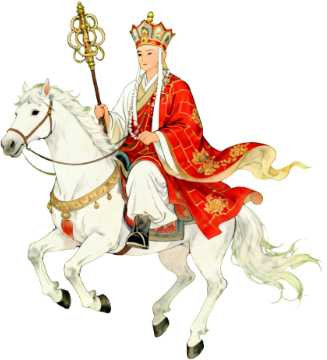
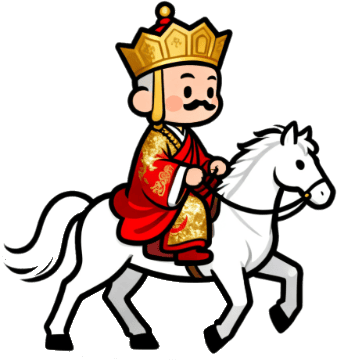
fix(web): 加载页唐僧回退 v2 素材（马未抬前脚）+ 恢复镜像 + 修 tos-upload 分文件毁 manifest
素材（应用户要求）：
- loading-tangseng.png 回退到 v2（090efd8 抠投影版，28KB，马未抬前脚的姿态），
  替换 round2 版（36ae28a，145KB）。
- v2 马头朝左（b0c982c 记录），行进从左到右 → 恢复水平镜像（fcde1fe 曾随
  round2 版移除）。旧注释「马头朝左且直接画=朝前」自相矛盾，已重写并留版本沿革。
- 已上传 TOS：loading-tangseng-0e9a2ed9.png，manifest 重算。

tos-upload 工具修复（本次实际踩坑）：
- 分文件上传（如 `tos-upload.mjs loading-tangseng.png`）原先会把
  manifest-generated.ts 改写成只剩本次条目（实测全表 103 条被抹成 1 条）。
  修为：manifest 始终从 baseDir 全量重算（哈希是内容函数，未重传文件 URL 不变），
  分文件参数只控制上传哪些。

验证：CDN 新 URL 与本地 v2 sha 一致；vite 冷缓存浏览器截图加载页渲染正常
0 pageerror（截图已交用户确认方向/姿态）；typecheck 28 基线、build ok。

diff --git a/web/src/loading-screen.ts b/web/src/loading-screen.ts
@@ -169,9 +169,16 @@ function drawWalkingMonk(ctx: CanvasRenderingContext2D, now: number): void {
   ctx.fill();
   ctx.restore();
 
-  // 贴图当前马头朝左，行进方向也是从左到右（马头朝前），直接画即可；
-  // 旧版素材马头朝右，曾在此做水平镜像；2026-08 重成立绘后马头已朝左，故移除镜像。
-  ctx.drawImage(img, x, topY, drawW, drawH);
+  // 贴图（v2 版，090efd8 抠投影）马头朝左，而行进方向是从左到右——直接画会像倒着走，
+  // 故水平镜像（translate+scale(-1,1)）让马头朝右、与行进方向一致。
+  // 方向依据：b0c982c 记录初版素材即马头朝左（其镜像修复逻辑自洽）；v2 仅做抠投影处理未翻转。
+  // 注：2026-08-20 曾短暂换成 round2 版（36ae28a，马头朝右）并移除镜像（fcde1fe），
+  // 现应用户要求回退到 v2（马未抬前脚的姿态），镜像随之恢复。
+  ctx.save();
+  ctx.translate(x + drawW, topY);
+  ctx.scale(-1, 1);
+  ctx.drawImage(img, 0, 0, drawW, drawH);
+  ctx.restore();
 }
 
 /** 延迟期内占位：纸底 + 静态山水（不画标题/进度），避免缓存命中时闪进度页。 */

diff --git a/web/src/game-assets/manifest-generated.ts b/web/src/game-assets/manifest-generated.ts
@@ -42,7 +42,7 @@ export const HASHED_URLS: Record<string, string> = {
   "icon-merit.png": "https://user-growth.tos-cn-shanghai.volces.com/dev/xy/icon-merit-5a330c9e.png",
   "icon-stamina.png": "https://user-growth.tos-cn-shanghai.volces.com/dev/xy/icon-stamina-c5ed6fd4.png",
   "item-shovel.png": "https://user-growth.tos-cn-shanghai.volces.com/dev/xy/item-shovel-b46306bf.png",
-  "loading-tangseng.png": "https://user-growth.tos-cn-shanghai.volces.com/dev/xy/loading-tangseng-6b615f8f.png",
+  "loading-tangseng.png": "https://user-growth.tos-cn-shanghai.volces.com/dev/xy/loading-tangseng-0e9a2ed9.png",
   "map-baiguling.jpg": "https://user-growth.tos-cn-shanghai.volces.com/dev/xy/map-baiguling-ab55fe18.jpg",
   "map-huoyanshan.jpg": "https://user-growth.tos-cn-shanghai.volces.com/dev/xy/map-huoyanshan-4de4e60f.jpg",
   "map-liushahe.jpg": "https://user-growth.tos-cn-shanghai.volces.com/dev/xy/map-liushahe-19084433.jpg",
